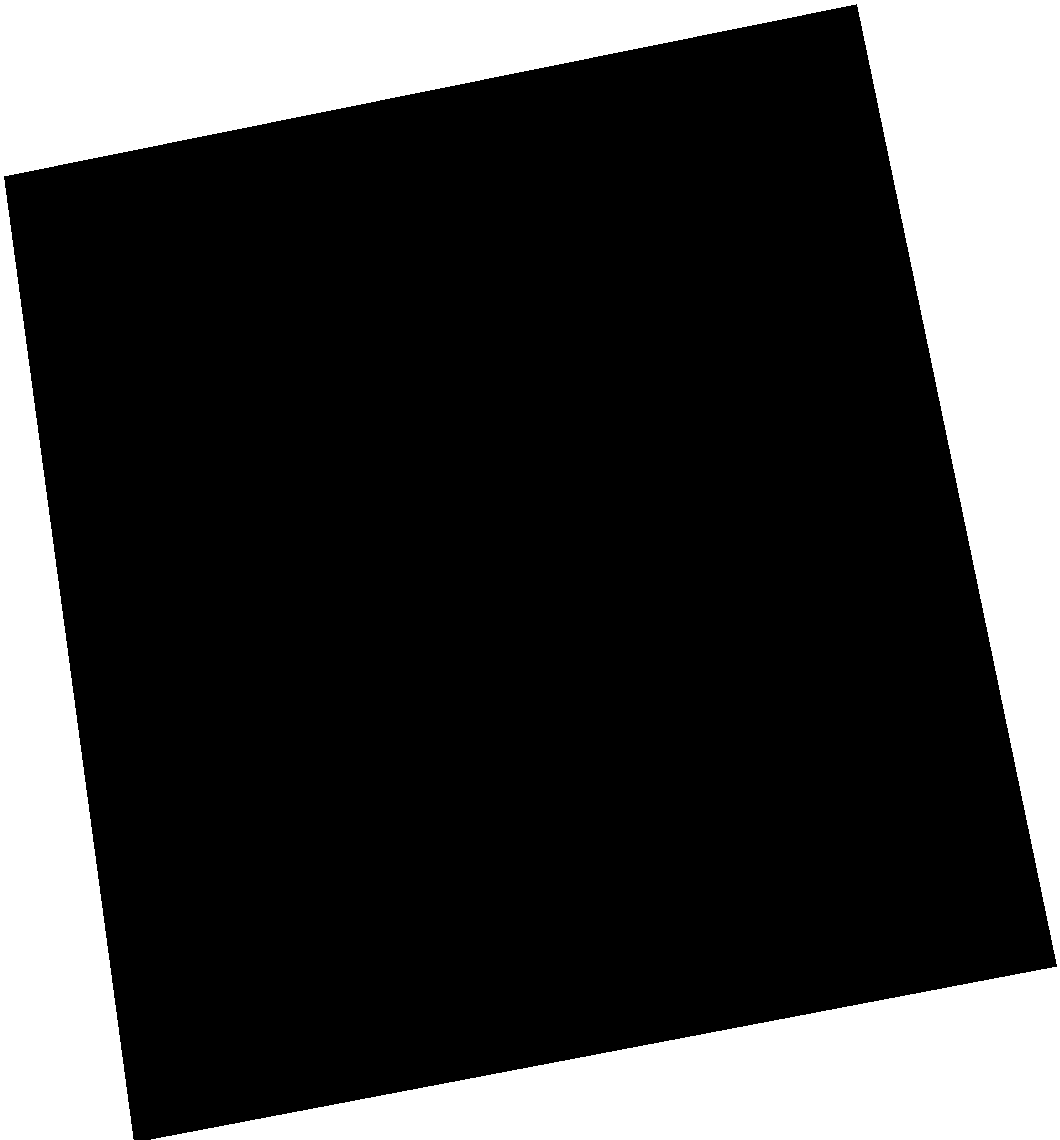
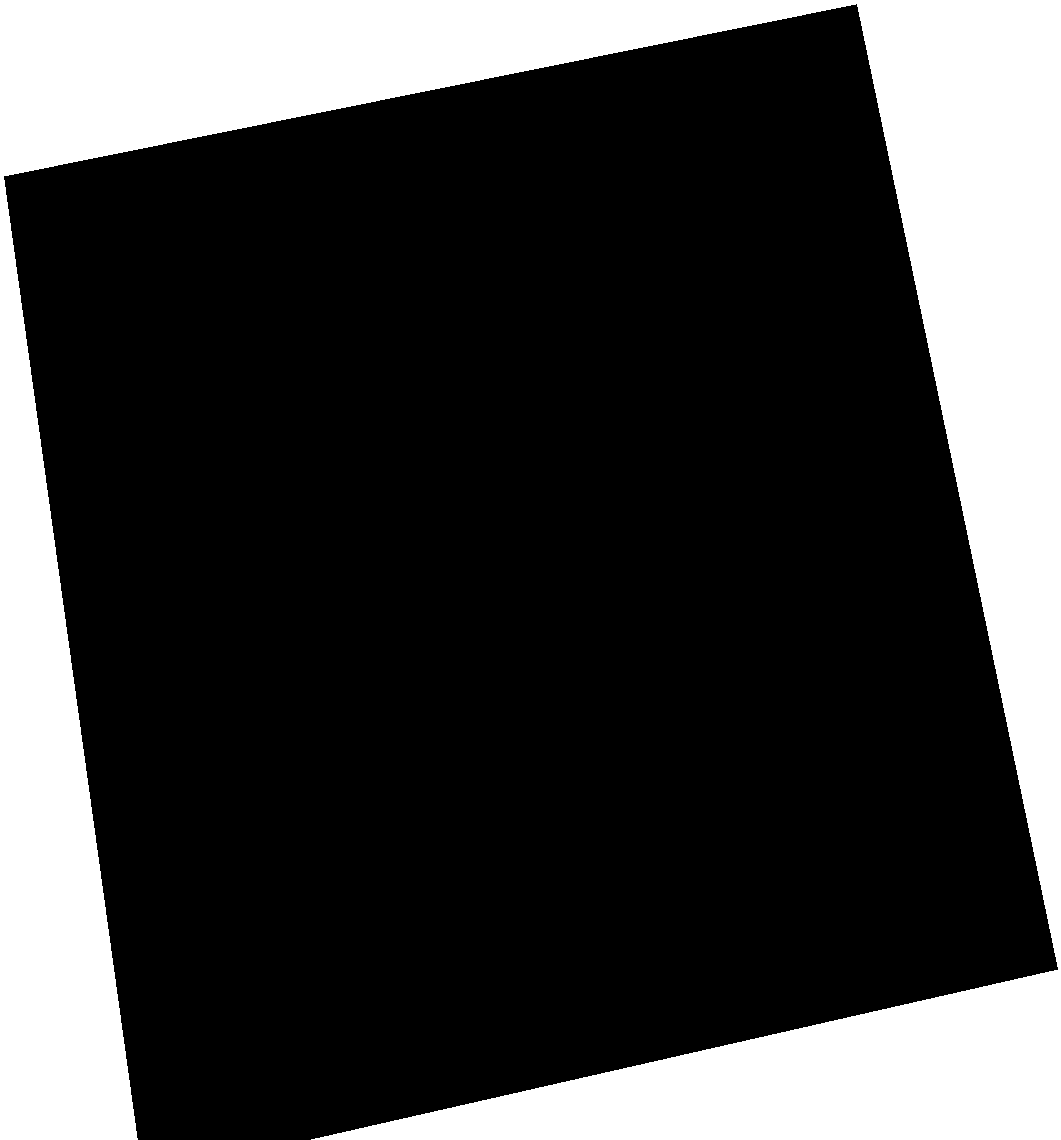
Hero: the left loose sheet's bottom edge fitted to the paper
Its bottom corners sat up to 26px high in the 4K frame, so a strip of
bare paper showed between what is baked onto the sheet and the paper's
edge. Fitted to where the paper meets the wood in the last frame
(y = -0.2279x + 2291, within 1.5px); the mask is remade from them.

Changed region(s): [[0.1245, 0.8596, 0.934, 1.0], [0.0934, 0.8289, 0.1245, 0.9518], [0.9651, 0.8289, 0.9962, 0.8596]]

diff --git a/src/app/landing/video/sheets.ts b/src/app/landing/video/sheets.ts
@@ -41,13 +41,16 @@ export type Sheet = {
 
 export const SHEETS: Record<SheetId, Sheet> = {
   left: {
+    // Its bottom edge fitted to where the paper meets the wood in the last
+    // 4K frame (y = -0.2279 x + 2291): the measured one sat up to 26px high
+    // and left a strip of bare paper along it (2026-10-06, circled).
     corners: [
       [274, 1196],
       [1126, 1024],
-      [1326, 1986],
-      [404, 2162],
+      [1327, 1989],
+      [413, 2197],
     ],
-    box: [270, 1020, 1060, 1140],
+    box: [270, 1020, 1061, 1140],
   },
   right: {
     corners: [
